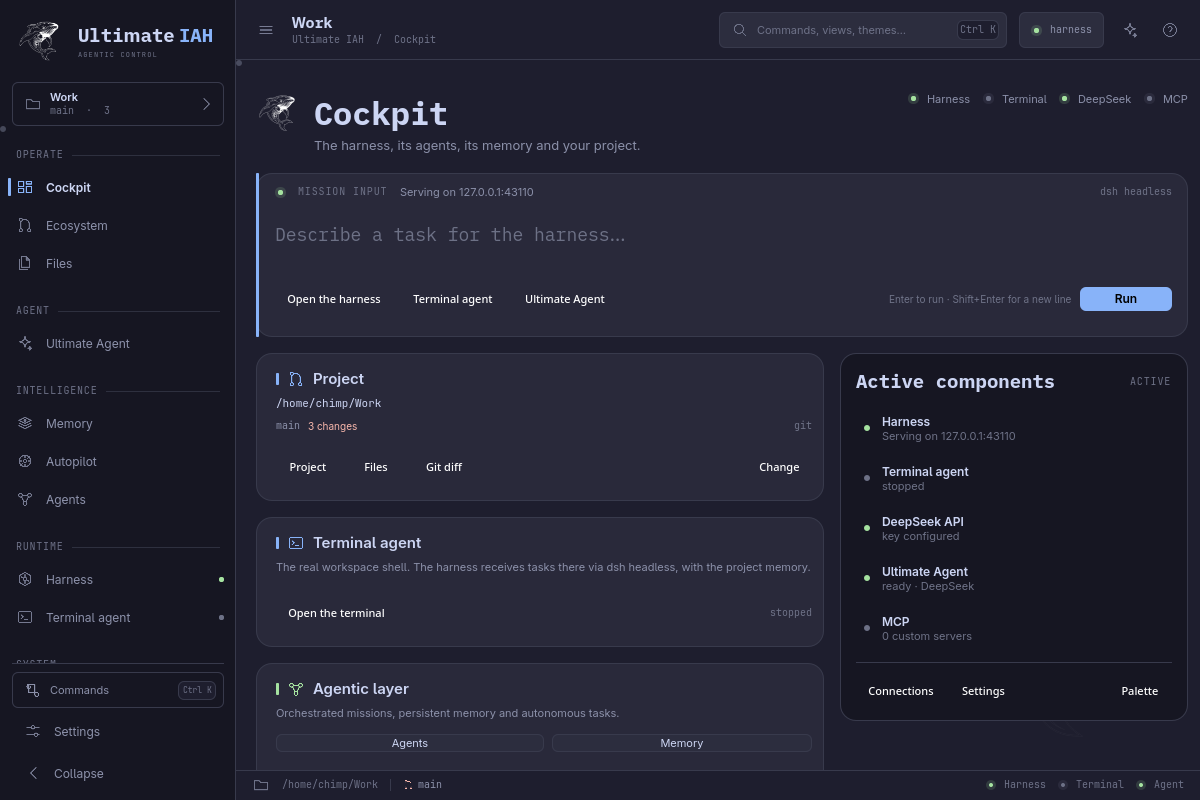
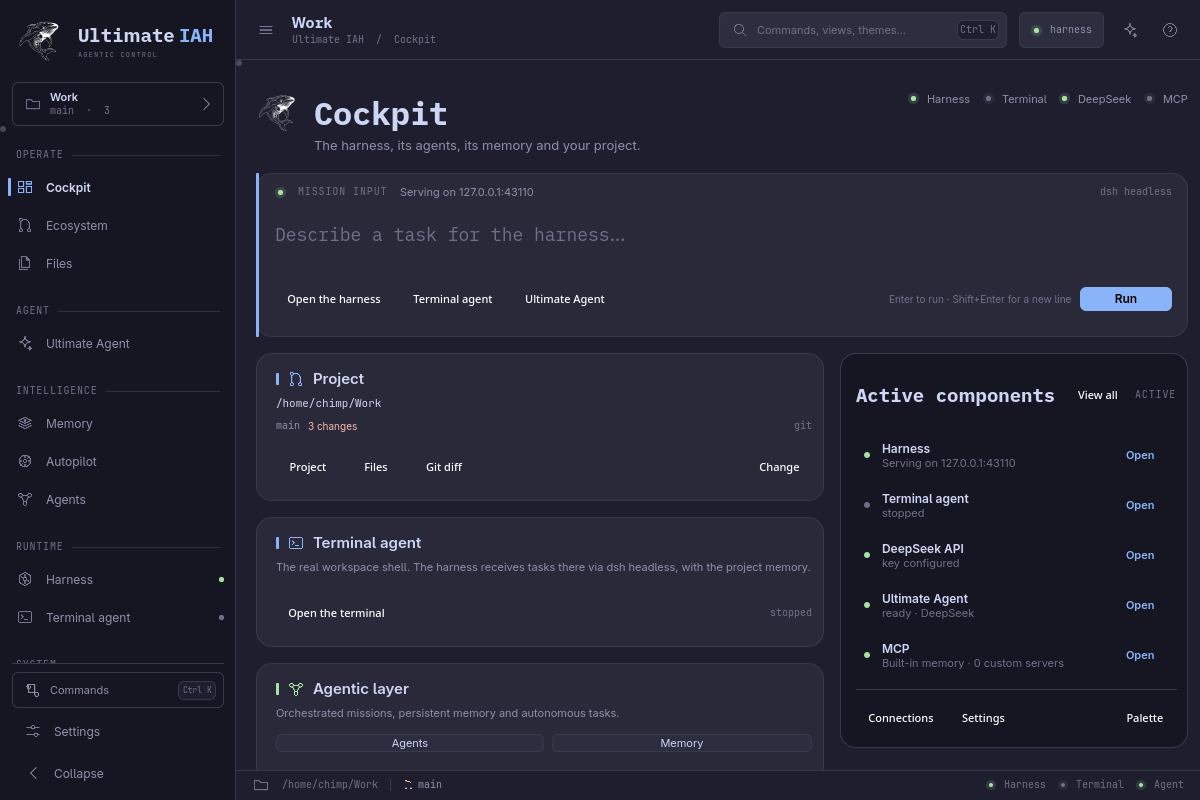
Give every active component an open action and audit routes

diff --git a/src/HomePane.qml b/src/HomePane.qml
@@ -398,6 +398,12 @@ Item {
                                     font.weight: Font.Bold
                                 }
                                 Item { Layout.fillWidth: true }
+                                Button {
+                                    text: qsTr("Tout voir")
+                                    flat: true
+                                    font.pixelSize: design.textCaption
+                                    onClicked: backend.setView("ecosystem")
+                                }
                                 Text { text: qsTr("ACTIFS"); color: theme.dimText; font.family: backend.monoFont; font.pixelSize: design.textMicro; font.letterSpacing: 0.9 }
                             }
 
@@ -428,7 +434,7 @@ Item {
                                         ? (connections.defaultModel !== "" ? connections.defaultModel : qsTr("clé configurée"))
                                         : qsTr("clé API manquante")
                                 stateColor: connections.deepseekConfigured ? theme.green : theme.orange
-                                actionLabel: qsTr("Configurer")
+                                actionLabel: qsTr("Ouvrir")
                                 onAction: backend.setView("connections")
                             }
                             ServiceRow {
@@ -442,9 +448,11 @@ Item {
                             ServiceRow {
                                 Layout.fillWidth: true
                                 name: "MCP"
-                                detail: qsTr("%n serveur(s) personnalisé(s)", "", mcpManager.servers.length)
-                                stateColor: mcpManager.servers.length > 0 ? theme.green : theme.dimText
-                                actionLabel: qsTr("Gérer")
+                                detail: mcpManager.builtins.length > 0
+                                        ? qsTr("Mémoire intégrée · %n serveur(s) personnalisé(s)", "", mcpManager.servers.length)
+                                        : qsTr("%n serveur(s) personnalisé(s)", "", mcpManager.servers.length)
+                                stateColor: (mcpManager.builtins.length > 0 || mcpManager.servers.length > 0) ? theme.green : theme.dimText
+                                actionLabel: qsTr("Ouvrir")
                                 onAction: backend.setView("mcp")
                             }
 

diff --git a/src/EcosystemPane.qml b/src/EcosystemPane.qml
@@ -85,9 +85,9 @@ Item {
                             { name: qsTr("Terminal agent"), detail: terminal.running ? (terminal.shell + " · " + backend.workspaceName) : qsTr("arrêté"), ok: terminal.running, view: "terminal", action: qsTr("Ouvrir") },
                             { name: qsTr("DeepSeek API"), detail: connections.deepseekConfigured ? (connections.defaultModel !== "" ? connections.defaultModel : qsTr("clé configurée")) : qsTr("clé API manquante"), ok: connections.deepseekConfigured, view: "connections", action: qsTr("Configurer") },
                             { name: qsTr("Ultimate Agent"), detail: connections.deepseekConfigured ? qsTr("prêt · DeepSeek") : qsTr("à configurer"), ok: connections.deepseekConfigured, view: "agent", action: qsTr("Ouvrir") },
-                            { name: "MCP", detail: qsTr("%n serveur(s) personnalisé(s)", "", mcpManager.servers.length), ok: mcpManager.servers.length > 0, view: "mcp", action: qsTr("Gérer") },
+                            { name: "MCP", detail: mcpManager.builtins.length > 0 ? qsTr("Mémoire intégrée · %n serveur(s) personnalisé(s)", "", mcpManager.servers.length) : qsTr("%n serveur(s) personnalisé(s)", "", mcpManager.servers.length), ok: mcpManager.builtins.length > 0 || mcpManager.servers.length > 0, view: "mcp", action: qsTr("Ouvrir") },
                             { name: qsTr("Mémoire persistante"), detail: qsTr("%n entrée(s)", "", memory.stats.total !== undefined ? memory.stats.total : 0), ok: memory.stats.total !== undefined && memory.stats.total > 0, view: "memory", action: qsTr("Ouvrir") },
-                            { name: qsTr("Skills"), detail: qsTr("%n skill(s) disponible(s)", "", ecosystem.skills.length), ok: ecosystem.skills.length > 0, view: "agents", action: qsTr("Gérer") },
+                            { name: qsTr("Skills"), detail: qsTr("%n skill(s) disponible(s)", "", ecosystem.skills.length), ok: ecosystem.skills.length > 0, view: "ecosystem", action: qsTr("Ouvrir") },
                             { name: qsTr("Installation"), detail: installation.summary !== "" ? installation.summary : qsTr("audit disponible"), ok: installation.failed === 0, view: "installation", action: qsTr("Vérifier") }
                         ]
                         ColumnLayout {

diff --git a/src/ServiceRow.qml b/src/ServiceRow.qml
@@ -49,14 +49,35 @@ Item {
             }
         }
 
-        Button {
+        Item {
+            id: actionArea
             visible: root.actionLabel !== ""
-            text: root.actionLabel
-            flat: true
-            enabled: root.actionEnabled
-            font.pixelSize: design.textCaption
-            implicitHeight: design.controlHeightSm
-            onClicked: root.action()
+            Layout.alignment: Qt.AlignVCenter
+            Layout.preferredWidth: Math.max(58, actionText.implicitWidth + design.space3)
+            Layout.preferredHeight: design.controlHeightSm
+
+            Rectangle {
+                anchors.fill: parent
+                radius: design.radiusSm
+                color: actionMouse.containsMouse && root.actionEnabled ? theme.chip : "transparent"
+                Behavior on color { ColorAnimation { duration: design.durationFast } }
+            }
+            Text {
+                id: actionText
+                anchors.centerIn: parent
+                text: root.actionLabel
+                color: root.actionEnabled ? theme.accent : theme.dimText
+                font.pixelSize: design.textCaption
+                font.weight: Font.DemiBold
+            }
+            MouseArea {
+                id: actionMouse
+                anchors.fill: parent
+                enabled: root.actionEnabled
+                hoverEnabled: true
+                cursorShape: root.actionEnabled ? Qt.PointingHandCursor : Qt.ArrowCursor
+                onClicked: root.action()
+            }
         }
     }
 

diff --git a/src/main.cpp b/src/main.cpp
@@ -213,7 +213,7 @@ int main(int argc, char *argv[]) {
     // stable config/data paths that hold the user's memory, providers and
     // integrations. The visible product is Ultimate IAH.
     QCoreApplication::setApplicationName(QStringLiteral("deepcrasy-h"));
-    QCoreApplication::setApplicationVersion(QStringLiteral("1.5.7"));
+    QCoreApplication::setApplicationVersion(QStringLiteral("1.5.8"));
     QCoreApplication::setOrganizationName(QStringLiteral("Crasy"));
 
     QStringList arguments;

diff --git a/README.md b/README.md
@@ -126,7 +126,7 @@ masqué pour éviter l'ancienne icône.
 ./bin/build
 ./bin/test
 cd pkgbuild && makepkg -f
-sudo pacman -U ultimate-hai-1.5.7-1-x86_64.pkg.tar.zst
+sudo pacman -U ultimate-hai-1.5.8-1-x86_64.pkg.tar.zst
 ```
 
 Le paquet remplace `deepcrasy-h`. Les données existantes sont conservées dans

diff --git a/docs/INSTALLATION.md b/docs/INSTALLATION.md
@@ -3,7 +3,7 @@
 ## Paquet système
 
 ```bash
-sudo pacman -U ultimate-hai-1.5.7-1-x86_64.pkg.tar.zst
+sudo pacman -U ultimate-hai-1.5.8-1-x86_64.pkg.tar.zst
 ```
 
 Le paquet dépend de Qt 6, QtWebEngine, Node.js, npm, Python, PyYAML, Git et
